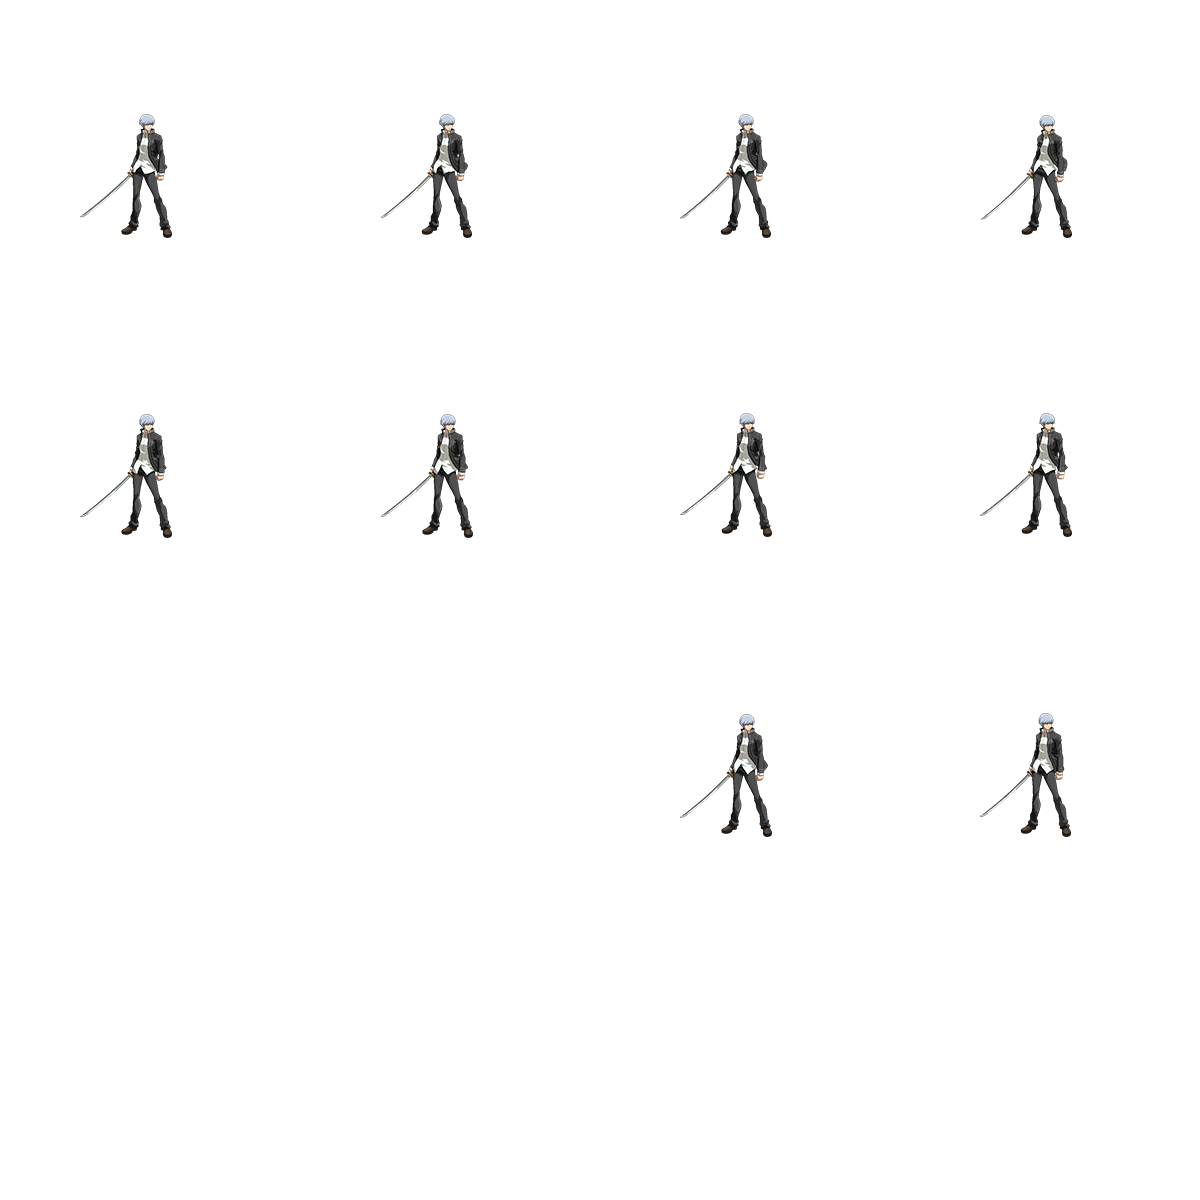
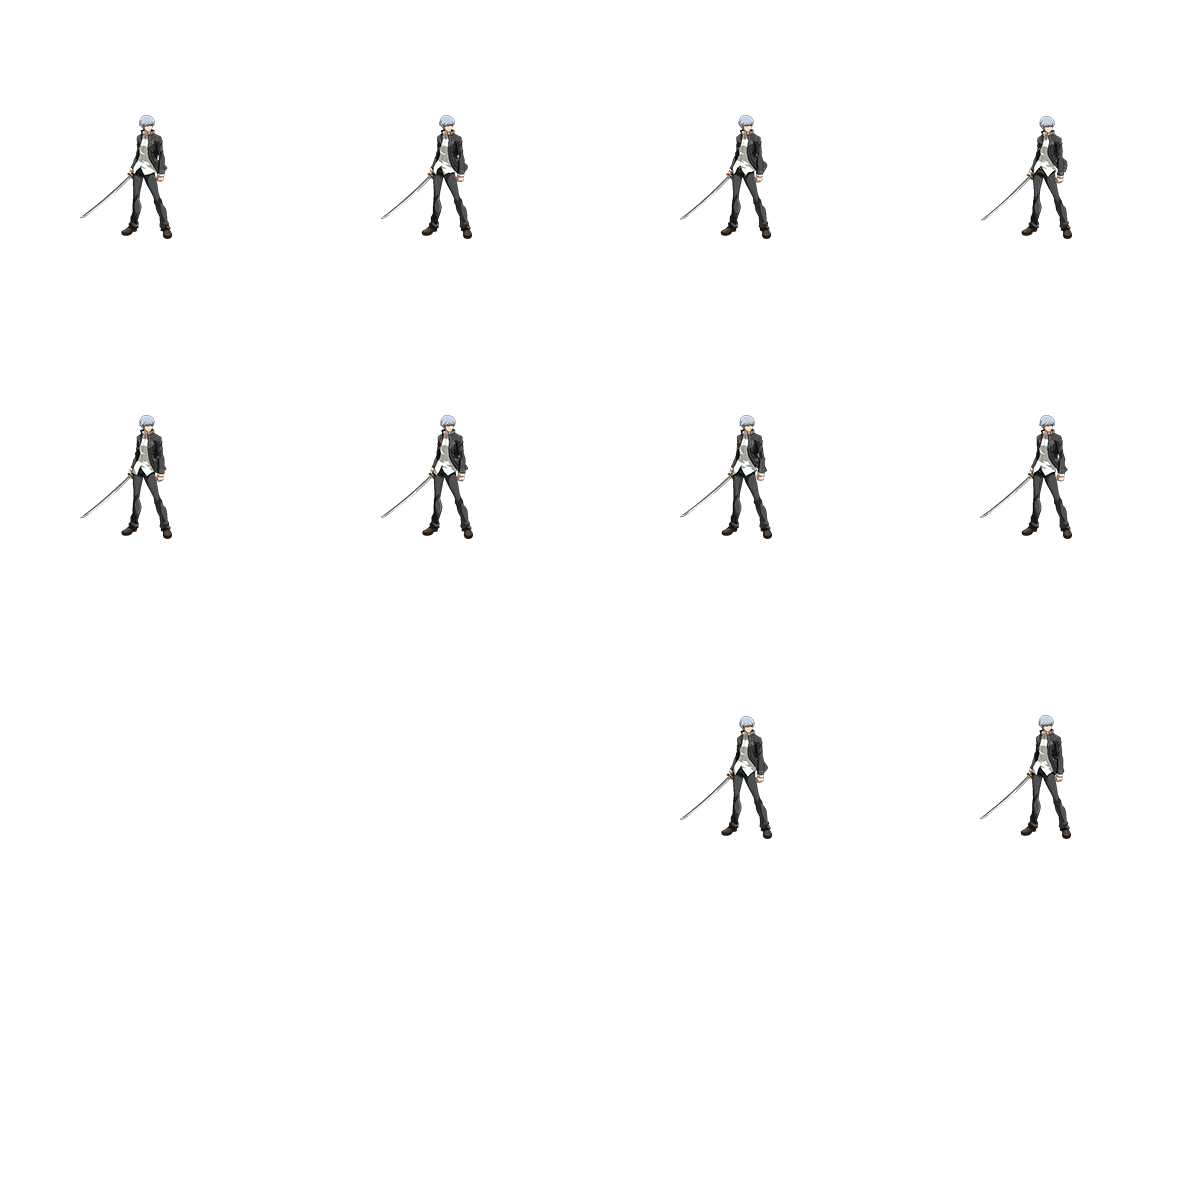
POWER BOSS2

diff --git a/core/src/main/java/sut/game02/core/character/E7.java b/core/src/main/java/sut/game02/core/character/E7.java
@@ -57,7 +57,7 @@ public class E7 extends Enemy{
         //body.setLinearDamping(0f);
         body.setTransform(new Vec2(x,y),0f);
         body.setFixedRotation(true);
-        layer().setOrigin(sprite.width()/2, sprite.height()/2+10);
+        layer().setOrigin(sprite.width()/2, sprite.height()/2+18);
         return  body;
     }
     public  void action(String action){
